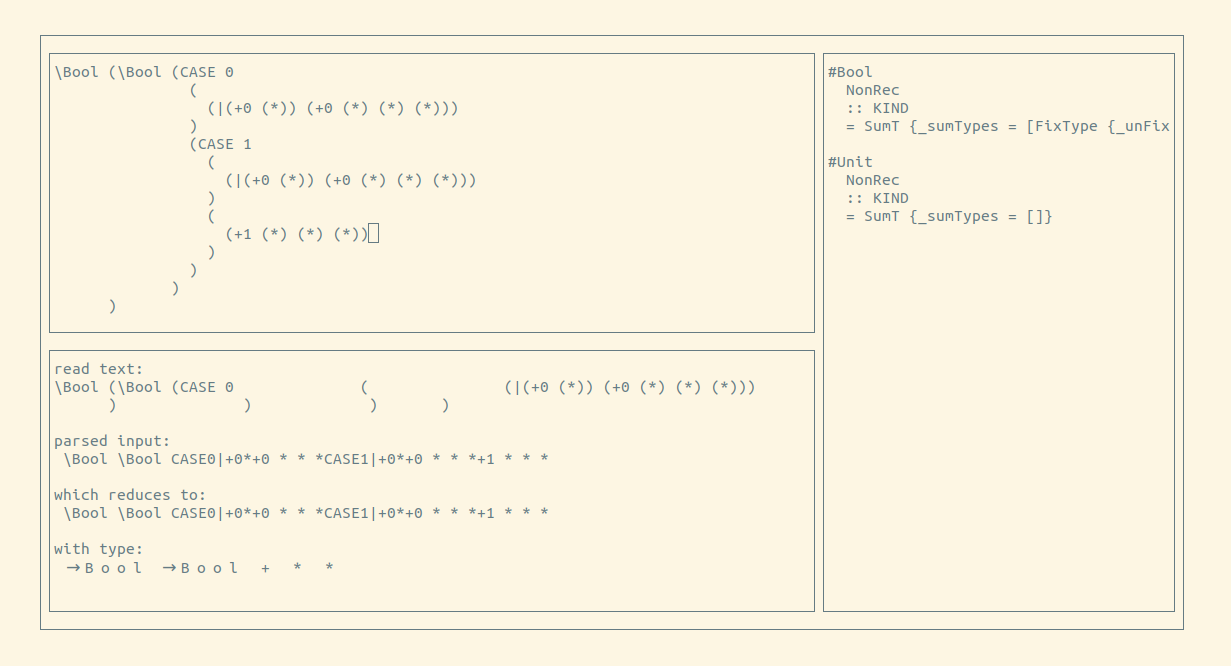
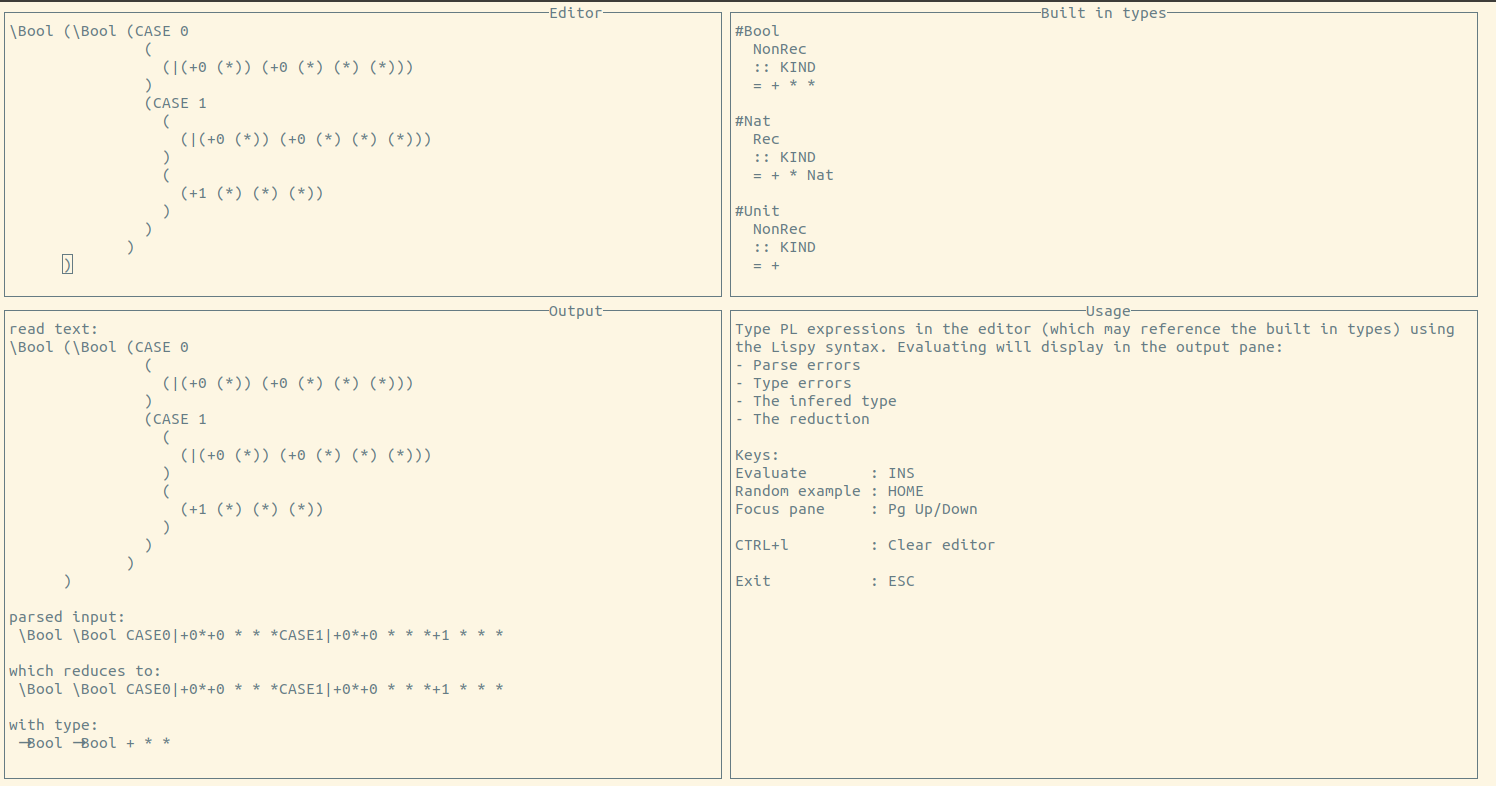
Update screenshots

diff --git a/README.md b/README.md
@@ -32,7 +32,7 @@ If installed globally, call `pl`. If built locally, call `stack exec pl`.
 Launching the `pl` executable creates a [brick](https://hackage.haskell.org/package/brick)-based
 command line interface split into several panes.
 
-![Boolean And](https://github.com/syallop/PLRepl/blob/master/README/BooleanAnd.png) 
+![Overview](https://github.com/syallop/PLRepl/blob/master/README/Overview.gif) 
 - The top-left `widget` is an [PLEditor](https://github.com/syallop/PLEditor)-based editor for inputing [lispy](https://github.com/syallop/PLLispy) source code.
 - The bottom-left widget is an output text area that displays the result of parsing/ type checking code entered into the editor widget. 
 - The right widget displays a context of the types currently defined and available to be mentioned in the editor.  
